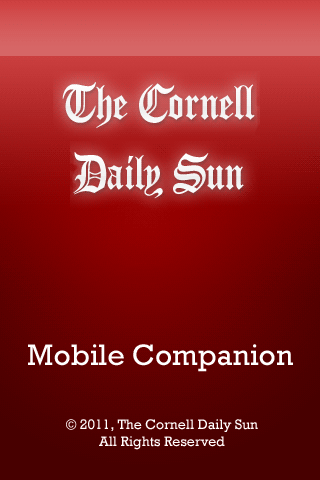
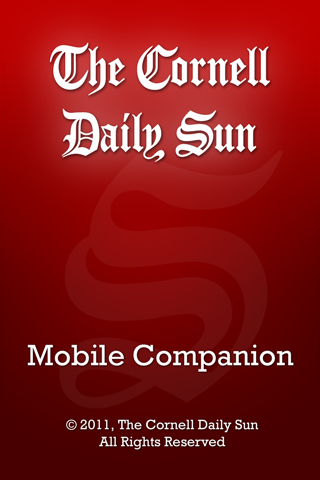
Final Font Changes

diff --git a/Resources/article.js b/Resources/article.js
@@ -1,4 +1,4 @@
-var ADMOB_PUBLISHER_ID = 'a14ed1a5ee858ea';
+var ADMOB_PUBLISHER_ID = 'a14b82142384341';
 var READ_MORE_TEXT = "Full Web Article";
 
 var win = Titanium.UI.currentWindow;
